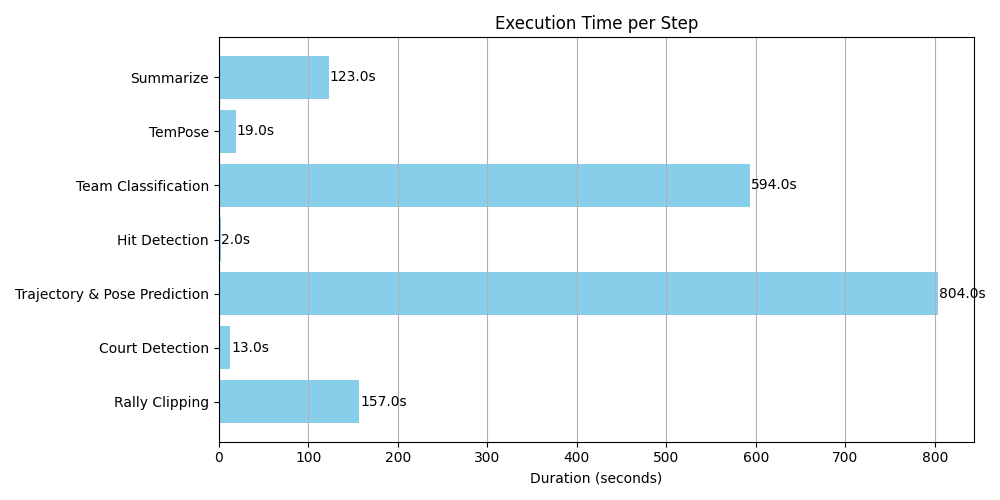
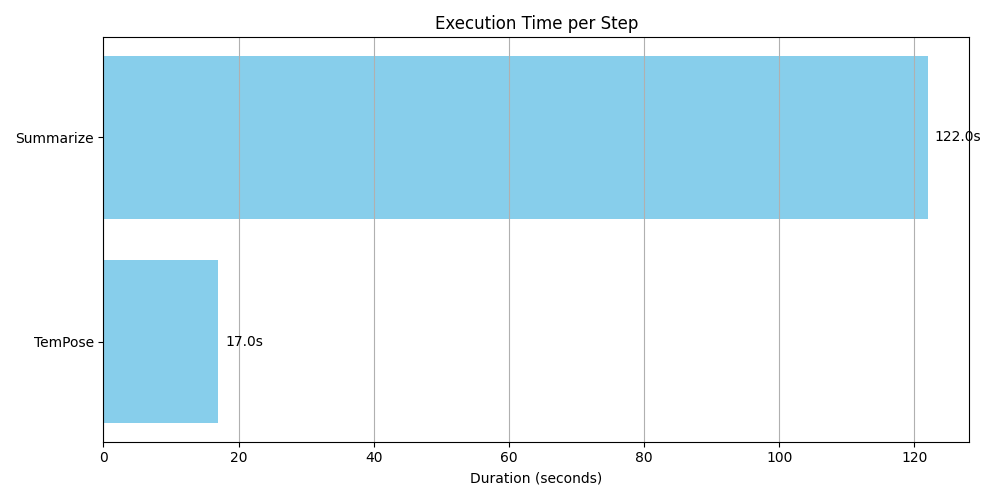
Predict successful

diff --git a/TemPose/generate_npy.py b/TemPose/generate_npy.py
@@ -1,6 +1,7 @@
 import numpy as np
 import pandas as pd
 from pathlib import Path
+from TemPose.utils import normalize_joints, normalize_position, get_court_info, to_court_coordinate
 
 # 19 條骨架連線
 COCO_BONES = [
@@ -10,20 +11,15 @@ COCO_BONES = [
     (11,13), (13,15), (12,14), (14,16),
 ]
 
-def normalize_coords(coords, width=1280, height=720):
-    coords = coords.astype(np.float64)
-    coords[:, 0::2] /= width
-    coords[:, 1::2] /= height
-    return coords
-
 def load_keypoints(csv_path):
     df = pd.read_csv(csv_path)
     data = df.iloc[:, 1:].values    # 跳過 frame 欄
-    data = normalize_coords(data)
     return data.reshape(len(df), -1, 2)  # (T, J, 2)
 
-def extract_pos_center(kps):
-    return np.mean(kps, axis=1)      # (T, 2)
+def load_bbox(csv_path):
+    df = pd.read_csv(csv_path)
+    data = df.iloc[:, 1:].values    # 跳過 frame 欄
+    return data                     # (T, 4)
 
 def pad_to_length(data, T_max):
     T = data.shape[0]
@@ -36,34 +32,59 @@ def compute_bones(kps, bones_idx):
     # 回傳 (T, B, 2)
     return np.stack([kps[:, j] - kps[:, i] for i, j in bones_idx], axis=1)
 
-def process_clip(clip_name, tempose_root, T_max=100):
+def process_clip(clip_name, tempose_root, T_max=30):
     """
     tempose_root\
-      clip_1\
+    clip_1\
         clip_1_top.csv
         clip_1_bottom.csv
         clip_1_ball.csv
     """
     clip_dir = Path(tempose_root)
 
-    top_csv    = clip_dir / f"{clip_name}_top.csv"
-    bot_csv    = clip_dir / f"{clip_name}_bottom.csv"
-    ball_csv   = clip_dir / f"{clip_name}_ball.csv"
+    top_csv         = clip_dir / f"{clip_name}_top.csv"
+    bot_csv         = clip_dir / f"{clip_name}_bottom.csv"
+    top_bbox_csv    = clip_dir / f"{clip_name}_top_bbox.csv"
+    bottom_bbox_csv = clip_dir / f"{clip_name}_bottom_bbox.csv"
+    ball_csv        = clip_dir / f"{clip_name}_ball.csv"
 
     # 讀取並正規化 keypoints
-    top    = load_keypoints(top_csv)
-    bottom = load_keypoints(bot_csv)
+    top_key     = load_keypoints(top_csv)
+    bottom_key  = load_keypoints(bot_csv)
+    top_bbox    = load_bbox(top_bbox_csv)
+    bottom_bbox = load_bbox(bottom_bbox_csv)
+
+    # court info
+    court_info = get_court_info()
 
     # 只取 X,Y (第 2,3 欄)，正規化
     ball_df = pd.read_csv(ball_csv)
     ball_xy = ball_df.iloc[:, 2:4].values / np.array([1280, 720])
 
     # 對齊最短長度並 padding
-    n = min(len(top), len(bottom), len(ball_xy))
-    top, bottom, ball_xy = top[:n], bottom[:n], ball_xy[:n]
-    top    = pad_to_length(top, T_max)
-    bottom = pad_to_length(bottom, T_max)
+    n = min(len(top_key), len(bottom_key), len(ball_xy), len(top_bbox), len(bottom_bbox))
+    top, bottom, ball_xy, top_bbox, bottom_bbox = top_key[:n], bottom_key[:n], ball_xy[:n], top_bbox[:n], bottom_bbox[:n]
+    '''
+    top    = pad_to_length(top, T_max)      # (T_max, J, 2)
+    bottom = pad_to_length(bottom, T_max)   # (T_max, J, 2)
     ball_xy= pad_to_length(ball_xy, T_max)
+    top_bbox    = pad_to_length(top_bbox, T_max)
+    bottom_bbox = pad_to_length(bottom_bbox, T_max)
+    '''
+
+    # position
+    top_feet, bottom_feet = top[:, -2:, :], bottom[:, -2:, :]       # (T_max, J=2, 2)
+    top_feet = to_court_coordinate(top_feet, court_info['H'])       # (T_max, J=2, 2)
+    bottom_feet = to_court_coordinate(bottom_feet, court_info['H']) # (T_max, J=2, 2)
+    
+    # normalize
+    top_pos = normalize_position(top_feet, court_info)
+    bottom_pos = normalize_position(bottom_feet, court_info)
+    pos = np.concatenate([top_pos, bottom_pos], axis=1)  # (T_max, 2, 2)
+
+    # normalize keypoints
+    top = normalize_joints(top, top_bbox)           # (T_max, 1, 2)
+    bottom = normalize_joints(bottom, bottom_bbox)  # (T_max, 1, 2)
 
     # 計算骨架向量
     t_top = compute_bones(top, COCO_BONES)
@@ -75,21 +96,16 @@ def process_clip(clip_name, tempose_root, T_max=100):
 
     # 最終 human_pose: (1, T, 2, J+B, 2)
     human_pose = np.stack([top_all, bot_all], axis=1)[None, ...]
-    pos        = np.stack([extract_pos_center(top), extract_pos_center(bottom)], axis=1)[None, ...]
+    pos        = np.expand_dims(pos, axis=0)
     shuttle    = ball_xy[None, ...]
-    videos_len = np.array([n])
-    labels     = np.array([0], dtype=int)
+    # videos_len = np.array([n])
+    # labels     = np.array([0], dtype=int)
 
     # 儲存到 clip_dir
     np.save(clip_dir / 'JnB_bone.npy', human_pose)
     np.save(clip_dir / 'pos.npy', pos)
     np.save(clip_dir / 'shuttle.npy', shuttle)
-    np.save(clip_dir / 'videos_len.npy', videos_len)
-    np.save(clip_dir / 'labels.npy', labels)
+    # np.save(clip_dir / 'videos_len.npy', videos_len)
+    # np.save(clip_dir / 'labels.npy', labels)
 
     print(f"[✓] Saved .npy files into {clip_dir}")
-
-if __name__ == "__main__":
-    # 把下面路徑改成你本機的 tempose 根目錄
-    tempose_root = r"C:\Badminton\BadmintonAI-End2End\tempose"
-    process_clip("clip_1", tempose_root)

diff --git a/TemPose/utils.py b/TemPose/utils.py
@@ -1,0 +1,147 @@
+import numpy as np
+import pandas as pd
+
+def normalize_joints(
+    arr: np.ndarray,  # shape: (T, J, 2)
+    bbox: np.ndarray,  # shape: (T, 4)
+    v_height=None,
+    center_align=True,
+):
+    """
+    Normalize joints over T frames for a single player.
+    
+    - arr: (T, J, 2)
+    - bbox: (T, 4)
+    - v_height: scalar or None
+    - center_align: bool
+    Return:
+    - normalized_arr: (T, J, 2)
+    """
+    if v_height:
+        dist = v_height / 4.0
+    else:
+        dist = np.linalg.norm(bbox[:, 2:] - bbox[:, :2], axis=-1, keepdims=True)  # (T, 1)
+
+    arr_x = arr[:, :, 0]  # (T, J)
+    arr_y = arr[:, :, 1]
+
+    x_normalized = np.where(arr_x != 0.0, (arr_x - bbox[:, None, 0]) / dist, 0.0)
+    y_normalized = np.where(arr_y != 0.0, (arr_y - bbox[:, None, 1]) / dist, 0.0)
+
+    if center_align:
+        center = (bbox[:, :2] + bbox[:, 2:]) / 2  # (T, 2)
+        c_normalized = (center - bbox[:, :2]) / dist  # (T, 2)
+        x_normalized -= c_normalized[:, None, 0]
+        y_normalized -= c_normalized[:, None, 1]
+
+    return np.stack((x_normalized, y_normalized), axis=-1)  # (T, J, 2)
+
+def normalize_position(arr: np.ndarray, court_info: dict):
+    '''
+    Normalized by court boundary.
+
+    arr:    (T, 2, 2). There are N 'x' and N 'y'.
+    Output: (T, 1, 2). Every 'x', 'y' in-court should be in [0, 1].
+    '''
+    # calculate the mean of arr
+    arr = arr.mean(axis=1, keepdims=True)   # (T, 1, 2)
+
+    x_mean = (court_info['border_L'] + court_info['border_R']) / 2
+    y_mean = (court_info['border_U'] + court_info['border_D']) / 2
+    x_dist = court_info['border_R'] - court_info['border_L']
+    y_dist = court_info['border_D'] - court_info['border_U']
+
+    x_normalized = (arr[:, :, 0] - x_mean) / x_dist + 0.5   # (T, 1)
+    y_normalized = (arr[:, :, 1] - y_mean) / y_dist + 0.5   # (T, 1)
+    return np.stack((x_normalized, y_normalized), axis=-1)  # (T, 1, 2)
+
+def get_corner_camera(court_txt = 'court_detection/court.txt'):
+    with open(court_txt, 'r') as f:
+        lines = f.readlines()
+    
+    corners = []
+    for i in range(4):
+        parts = lines[i].strip().split(';')
+        x = float(parts[0])
+        y = float(parts[1])
+        corners.append([x, y])
+    
+    corners = np.array(corners).T  # shape: (2, 4)
+    return corners
+
+
+def get_H(court_txt = 'court_detection/court.txt'):
+    with open(court_txt, 'r') as f:
+        lines = f.readlines()
+
+    # find the line "Homography Matrix:"
+    h_start = next(i for i, line in enumerate(lines) if "Homography Matrix:" in line)
+    h_lines = lines[h_start + 1 : h_start + 4]
+
+    H = []
+    for line in h_lines:
+        row = [float(x.strip()) for x in line.strip().replace('[', '').replace(']', '').replace(';', '').split(',')]
+        H.append(row)
+
+    return np.array(H)
+
+def convert_homogeneous(arr: np.ndarray):
+    '''
+    The shape of 2D `arr` is (2, N). => The output will be (3, N).
+    '''
+    # print(arr.shape)
+    return np.concatenate((arr, np.ones((1, arr.shape[1]))), axis=0)
+
+def project(H: np.ndarray, P_prime: np.ndarray):
+    '''
+    Transform coordinates from the camera system to the court system.
+    
+    H: (3, 3)
+    P_prime: (3, N)
+    Output: (2, N)
+    '''
+    P = H @ P_prime
+    P = P[:2, :] / P[-1, :]  # /= w
+    return P
+
+def get_court_info():
+    '''
+    Get the homography matrix and the 4 corners of the court in the court coordinate corresponding to the video.
+    '''
+    H = get_H()
+    corner_camera = get_corner_camera()
+    corner_camera = convert_homogeneous(corner_camera)
+
+    corner_court = project(H, corner_camera)
+    return {
+        'H': H,
+        'border_L': corner_court[0, 0],
+        'border_R': corner_court[0, 1],
+        'border_U': corner_court[1, 0],
+        'border_D': corner_court[1, 2],
+    }
+
+def to_court_coordinate(
+    arr_camera: np.ndarray,
+    H
+):
+    '''
+    Convert the camera coordinate system to the court coordinate system.
+    
+    Input:
+        arr_camera: np.ndarray of shape (30, 2, 2)
+            30 frames, each with 2 points (e.g., top/bottom), each point (x, y)
+        H: homography matrix
+
+    Output:
+        np.ndarray of shape (30, 2, 2)
+            Projected court coordinates
+    '''
+    court_coord = []
+    for i in range(arr_camera.shape[0]):
+        pts = arr_camera[i]                  # shape: (2, 2)
+        pts_h = convert_homogeneous(pts)     # shape: (2, 3)
+        pts_proj = project(H, pts_h)         # shape: (2, 2)
+        court_coord.append(pts_proj)
+    court_coord = np.stack(court_coord)      # shape: (30, 2, 2)
+    return court_coord

diff --git a/main.py b/main.py
@@ -56,7 +56,7 @@ def main():
     )
     print("[Message] Court detection finished\n")
     recording_execution_time(logs, "End Court Detection")
-    '''
+    
     # ——— 3. Trajectory & Pose Prediction —————————————————————————————————————
     print("\n[Message] Start trajectory & pose prediction\n")
     recording_execution_time(logs, "Start Trajectory & Pose Prediction")
@@ -91,7 +91,7 @@ def main():
         predict_teams(clip_dir, clip, classifier, draw)
     print("[Message] Team classification finished\n")
     recording_execution_time(logs, "End Team Classification")
-    
+    '''
     # ——— 6. TemPose  ——————————————————————————————————————
     # load model config
     print("\n[Message] Start TemPose\n")
@@ -194,7 +194,8 @@ def main():
         .reset_index(drop=True)
     )
     print("\n=== Stroke counts ===")
-    print(df_counts.to_string(index=False))
+    for row in df_counts.itertuples(index=False):
+        print(f"{row.stroke:<20} {row.count:>5}")
 
     # b) Full hit timeline
     df_tl = pd.DataFrame(timeline)
@@ -210,7 +211,7 @@ def main():
     visualize_hits_in_video(video_path, timeline, output_path=output_video_path)
     
     # Optionally save CSVs:
-    #df_counts.to_csv(RALLY_OUTPUT / "summary_counts.csv", index=False)
+    df_counts.to_csv(output_video_dir / "summary_counts.csv", index=False)
     #df_tl   .to_csv(RALLY_OUTPUT / "hit_timeline.csv",  index=False)
 
     #print(f"\n[Done] Summaries written to {RALLY_OUTPUT / 'summary_counts.csv'} and hit_timeline.csv")

diff --git a/TemPose/predict_by_hit.py b/TemPose/predict_by_hit.py
@@ -46,17 +46,16 @@ def per_hit_predict(model, clip_dir: Path, hit_csv: Path, cfg: dict, device: tor
         b, t, m, d = p.shape  # (1, 30, 2, 2)
         p = p.view(b, t, m * d)  # (1, 30, 4)
 
-        # print("X: ", x.shape)
-        # print("P: ", p.shape)
-        # print("S: ", s.shape)
+        # print("X: ", x.shape)   # (1, 30, 2, 36, 2)
+        # print("P: ", p.shape)   # (1, 30, 4)
+        # print("S: ", s.shape)   # (1, 30, 2)
 
-        sp = torch.cat([p, s], dim=-1)  # (b, t, 6)
+        sp = torch.cat([s, p], dim=-1)  # (b, t, 6)
 
         b,t,m,j,d = x.shape
         x = x.view(b, t, m, j*d)
         sp = sp.view(b, t, -1)
         
-
         with torch.no_grad():
             pred_idx = model.predict(x, sp, t_pad)
         name = stroke_names[pred_idx.item()]
